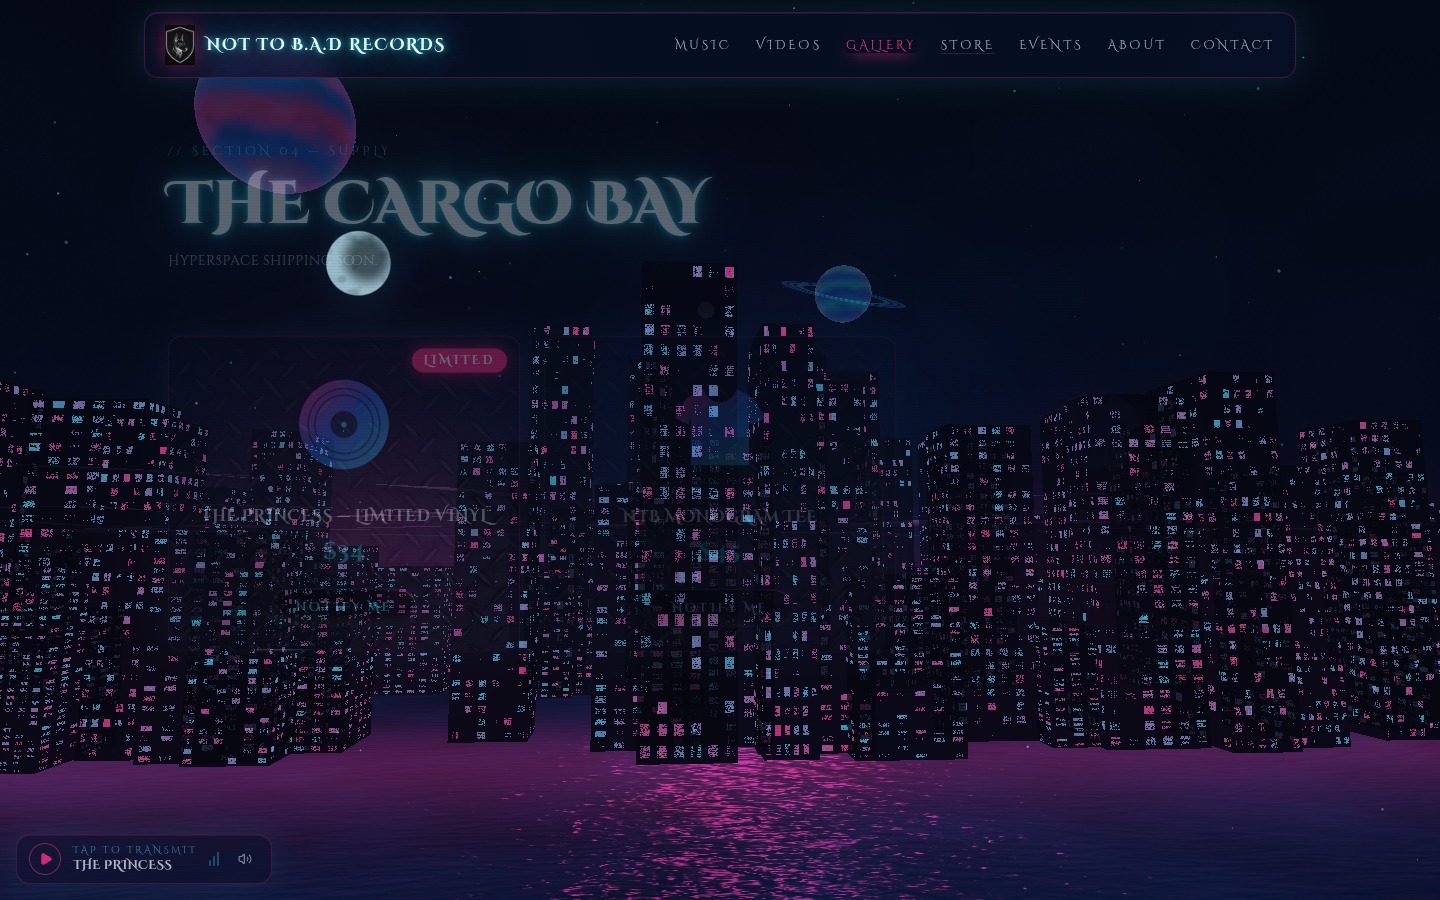
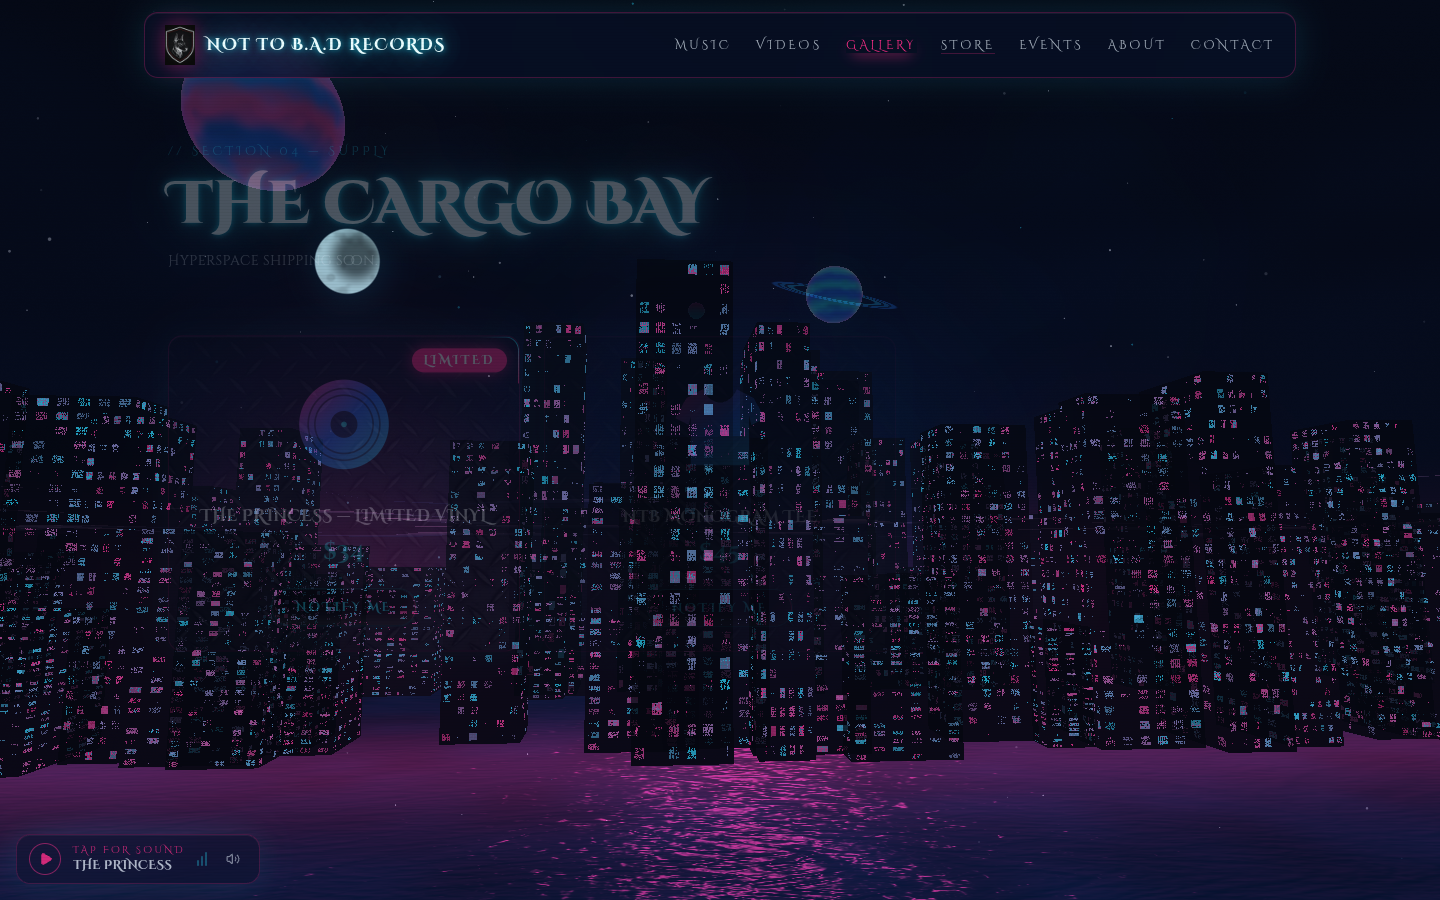
Autoplay the ambient track as far as browsers permit
Audible autoplay from a cold visit is blocked by every browser and can't
be coded around, so the player now escalates: try to play with sound
(granted to visitors who've engaged with the domain before), else
autoplay muted, then unmute on the first qualifying gesture and restart
from 0:00 so the song is heard from the top. The chip blinks TAP FOR
SOUND while silent. Buffering moved back to preload=auto now that the
track starts on every visit.

Claude-Session: https://claude.ai/code/session_01BqghB9EY3JXAhu3KfkDg6k

diff --git a/components/fanhub/ambient-player.tsx b/components/fanhub/ambient-player.tsx
@@ -1,10 +1,20 @@
 "use client";
 
-// Site-wide ambient player: the top MUSIC track loops quietly for the whole
-// visit. Browsers block autoplay-with-sound, so we try immediately and fall
-// back to starting on the visitor's first interaction. The visitor's choice
-// (and any pause) is remembered, embeds duck the music, and the whole widget
-// removes itself if the audio file isn't deployed yet.
+// Site-wide ambient player: the top MUSIC track autoplays and loops for the
+// whole visit.
+//
+// Every browser blocks audible autoplay from a cold visit — it cannot be
+// coded around — so this goes as far as the platform allows, in order:
+//   1. Try to play with sound. Chrome grants this to visitors who have
+//      engaged with the domain before, so returning fans get instant audio.
+//   2. Otherwise autoplay MUTED, which is always permitted, so the track is
+//      genuinely running from page load.
+//   3. Unmute on the visitor's first qualifying gesture (unmuting without
+//      one makes Chrome pause the element), restarting from 0:00 so they
+//      hear the song from the top rather than mid-verse.
+//
+// A visitor's pause is remembered across visits, embeds duck the music, and
+// the whole widget removes itself if the audio file isn't deployed yet.
 
 import { Pause, Play, Volume2, VolumeX } from "lucide-react";
 import { useCallback, useEffect, useRef, useState } from "react";
@@ -15,7 +25,9 @@ import { cn } from "@/lib/utils";
 
 const STORAGE_KEY = "ntb-ambient-audio";
 const VOLUME = 0.45;
-const GESTURES = ["pointerdown", "keydown", "touchstart", "wheel"] as const;
+// Only gestures that count as user activation can lift the mute; scroll and
+// mousemove do not qualify, so they are deliberately absent.
+const GESTURES = ["pointerdown", "keydown", "touchend", "click"] as const;
 
 const track = releases.find((release) => release.audioUrl);
 
@@ -23,23 +35,38 @@ export function AmbientPlayer() {
   const audioRef = useRef<HTMLAudioElement>(null);
   const [playing, setPlaying] = useState(false);
   const [muted, setMuted] = useState(false);
-  const [awaitingGesture, setAwaitingGesture] = useState(false);
+  // Playing, but silently — waiting on a gesture to lift the mute.
+  const [silent, setSilent] = useState(false);
   const [unavailable, setUnavailable] = useState(false);
   // Visitors who pressed pause stay paused — never re-autostart on them.
   const optedOut = useRef(false);
 
+  /** Autoplay with sound if allowed, else muted. Returns true if audible. */
   const start = useCallback(async () => {
     const audio = audioRef.current;
     if (!audio || optedOut.current) return false;
+    audio.volume = VOLUME;
+    audio.muted = false;
     try {
       await audio.play();
       setPlaying(true);
-      setAwaitingGesture(false);
+      setSilent(false);
+      setMuted(false);
       return true;
     } catch {
-      setAwaitingGesture(true);
-      return false;
+      // Blocked with sound — fall back to muted autoplay, which is allowed.
     }
+    try {
+      audio.muted = true;
+      await audio.play();
+      setPlaying(true);
+      setSilent(true);
+      setMuted(true);
+    } catch {
+      // Even muted autoplay refused (iOS low-power); wait for the gesture.
+      setSilent(true);
+    }
+    return false;
   }, []);
 
   // The <audio> ships in the static HTML, so a missing file can error before
@@ -79,16 +106,26 @@ export function AmbientPlayer() {
     void start();
   }, [start]);
 
-  // Autoplay was blocked — arm the first real interaction to kick it off.
+  // Running silently — the first qualifying gesture brings the sound in from
+  // the top of the track.
   useEffect(() => {
-    if (!awaitingGesture || optedOut.current) return;
-    const onGesture = () => void start();
+    if (!silent || optedOut.current) return;
+    const onGesture = () => {
+      const audio = audioRef.current;
+      if (!audio || optedOut.current) return;
+      audio.muted = false;
+      audio.volume = VOLUME;
+      audio.currentTime = 0;
+      setMuted(false);
+      setSilent(false);
+      void audio.play().catch(() => undefined);
+    };
     GESTURES.forEach((type) =>
       window.addEventListener(type, onGesture, { once: true, passive: true }),
     );
     return () =>
       GESTURES.forEach((type) => window.removeEventListener(type, onGesture));
-  }, [awaitingGesture, start]);
+  }, [silent]);
 
   // A video or Spotify embed just opened — get out of its way.
   useEffect(() => {
@@ -136,13 +173,13 @@ export function AmbientPlayer() {
 
   return (
     <div className="pointer-events-none fixed bottom-4 left-4 z-40 print:hidden">
-      {/* preload="metadata": the master is several MB, so don't spend a
-          visitor's data until playback actually starts */}
+      {/* preload="auto": the track now starts on every visit, so buffer it
+          up front for a clean, gapless start */}
       <audio
         ref={audioRef}
         src={track.audioUrl}
         loop
-        preload="metadata"
+        preload="auto"
         onPlay={() => setPlaying(true)}
         onPause={() => setPlaying(false)}
         onError={() => setUnavailable(true)}
@@ -168,8 +205,15 @@ export function AmbientPlayer() {
         </button>
 
         <span className="hidden min-w-0 flex-col leading-tight sm:flex">
-          <span className="text-[0.6rem] uppercase tracking-[0.25em] text-sunset-gold/80">
-            {awaitingGesture && !playing ? "TAP TO TRANSMIT" : "NOW TRANSMITTING"}
+          <span
+            className={cn(
+              "text-[0.6rem] uppercase tracking-[0.25em]",
+              silent
+                ? "animate-blink text-sunset-pink motion-reduce:animate-none"
+                : "text-sunset-gold/80",
+            )}
+          >
+            {silent ? "TAP FOR SOUND" : "NOW TRANSMITTING"}
           </span>
           <span className="truncate text-xs font-bold uppercase tracking-wide text-foreground/90">
             {track.title}
